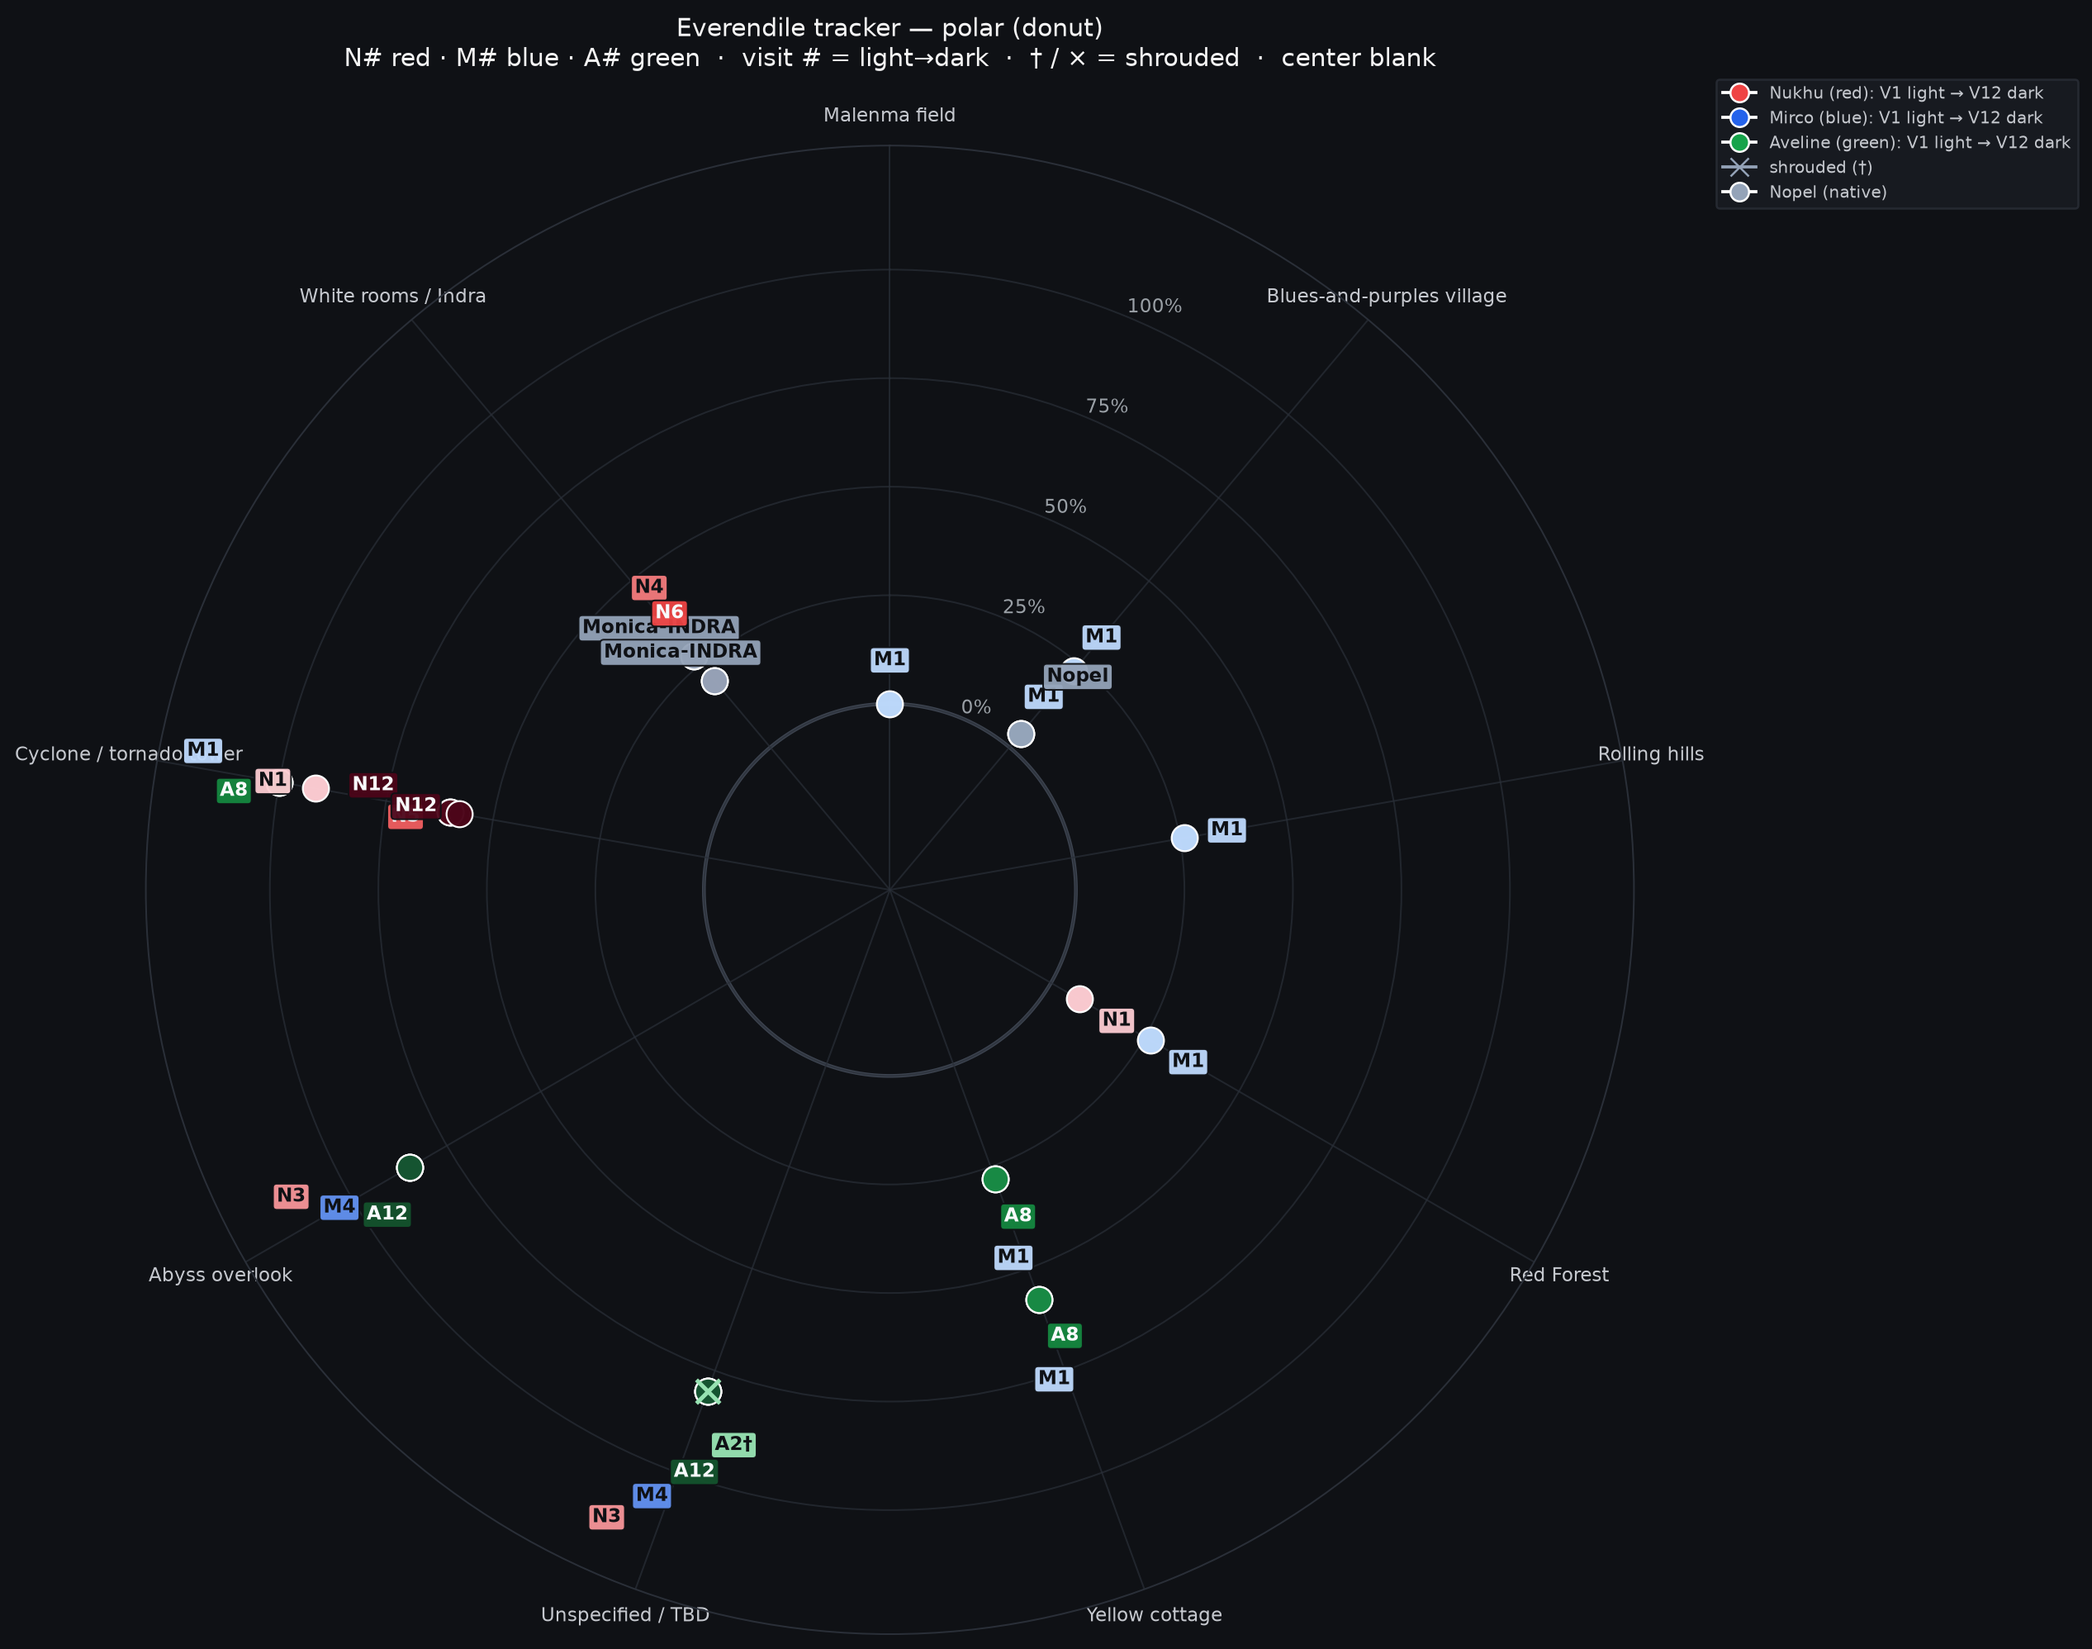
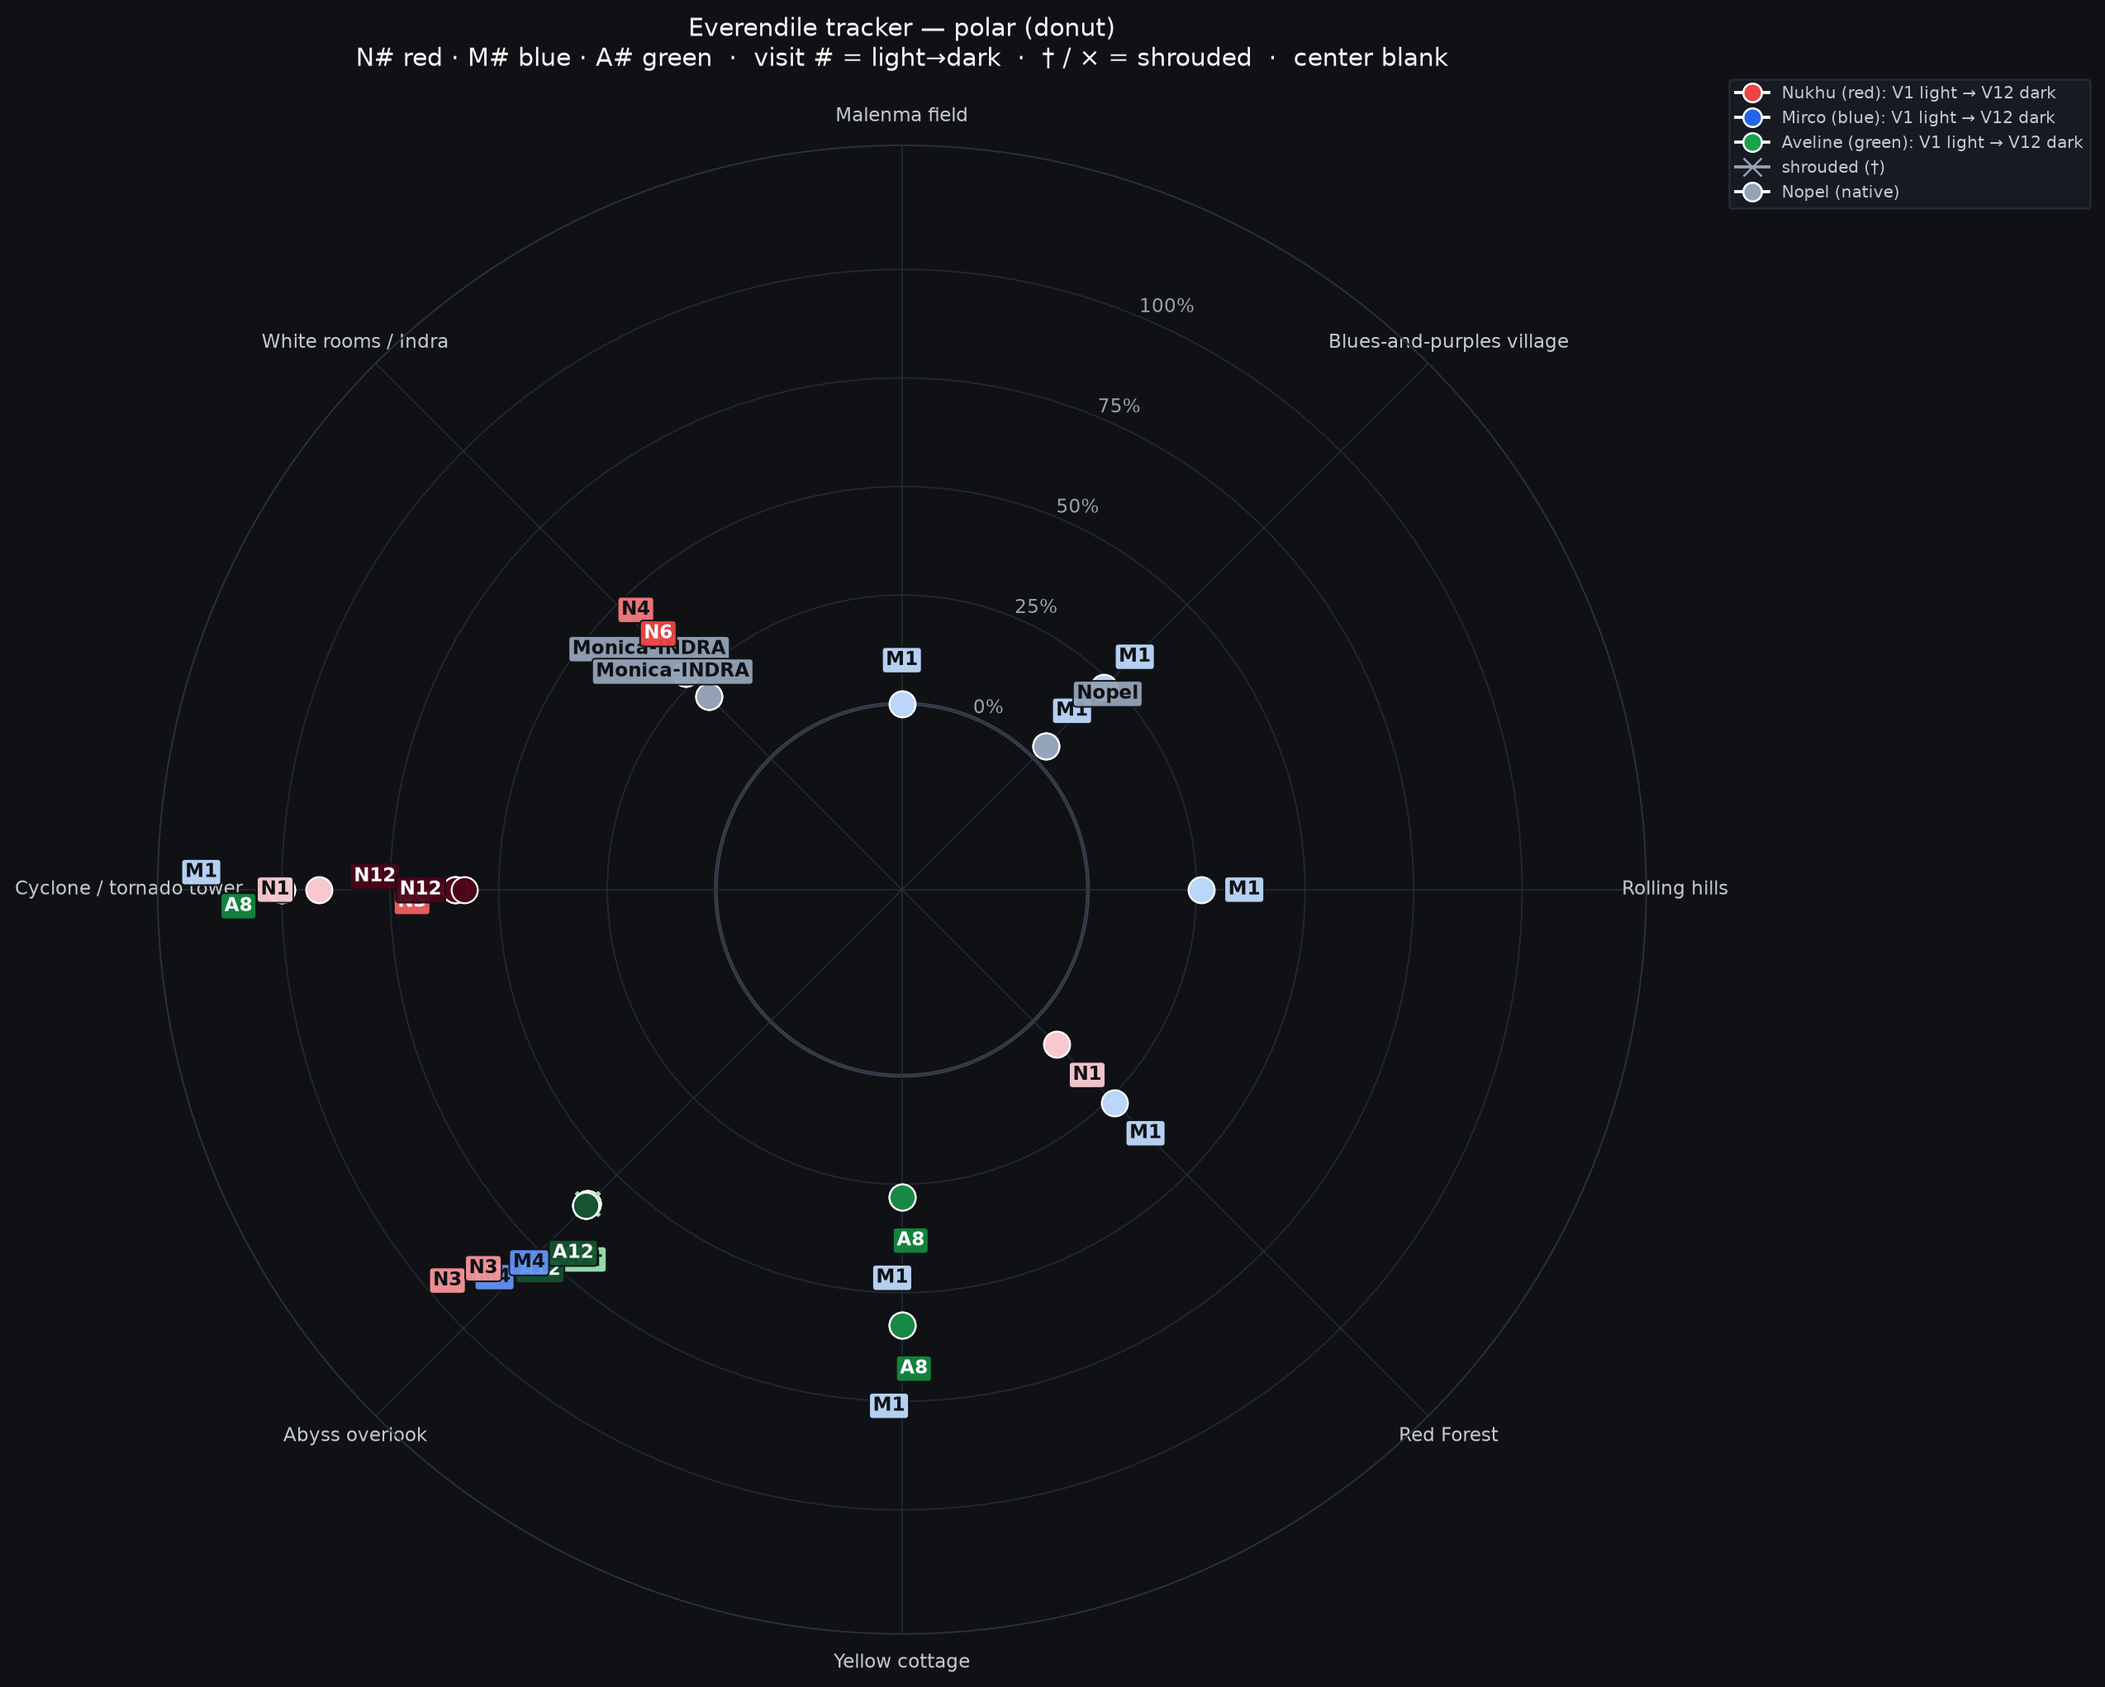
Move speaver fight + abyss overlook to Q3 (~59.5% / 60%)
Both on L_ABYSS; Aveline-V02 shrouded in fight only. Replaces 80%/85% lock.

diff --git a/index.html b/index.html
@@ -393,13 +393,13 @@ const DATA = {
       "beats": [
         {
           "beat_id": "B060",
-          "t": 80.0,
-          "label": "Speaver fight (80%)",
-          "place_id": "L_UNSPEC",
-          "place": "Unspecified / TBD",
+          "t": 59.5,
+          "label": "Speaver fight on abyss overlook (59.5%)",
+          "place_id": "L_ABYSS",
+          "place": "Abyss overlook",
           "shrouded": false,
           "exception": "",
-          "notes": "Speaver / cotton-candy FIGHT \u2014 Nukhu-V03 + Mirco-V04 + Aveline-V12 (author lock)",
+          "notes": "Speaver fight on abyss overlook with Mirco-V04 + Aveline-V12; Aveline-V02 shrouded \u2014 Q3 ~D19 / 59.5%",
           "code": "N3",
           "with": [
             {
@@ -408,7 +408,7 @@ const DATA = {
               "family": "Mirco",
               "visit": 4,
               "shrouded": false,
-              "notes": "Speaver fight with Nukhu-V03 + Aveline-V12 (author lock)"
+              "notes": "Speaver fight on abyss overlook with Nukhu-V03 + Aveline-V12; Aveline-V02 shrouded \u2014 Q3 ~D19 / 59.5%"
             },
             {
               "instance_id": "Aveline-V12",
@@ -416,7 +416,7 @@ const DATA = {
               "family": "Aveline",
               "visit": 12,
               "shrouded": false,
-              "notes": "Speaver fight with Nukhu-V03 + Mirco-V04 (author lock); her Visit 12"
+              "notes": "Speaver fight on abyss overlook with Nukhu-V03 + Mirco-V04; Aveline-V02 shrouded \u2014 Q3 ~D19 / 59.5%; her Visit 12"
             },
             {
               "instance_id": "Aveline-V02",
@@ -424,19 +424,19 @@ const DATA = {
               "family": "Aveline",
               "visit": 2,
               "shrouded": true,
-              "notes": "Shrouded observer at speaver fight (author lock); same locus as Aveline-V12 + Nukhu-V03 + Mirco-V04"
+              "notes": "Shrouded observer at speaver fight on abyss overlook (author lock); same locus as Aveline-V12 + Nukhu-V03 + Mirco-V04 \u2014 Q3 ~D19 / 59.5%"
             }
           ]
         },
         {
           "beat_id": "B065",
-          "t": 85.0,
-          "label": "Abyss aftermath (85%)",
+          "t": 60.0,
+          "label": "Abyss overlook aftermath (60%)",
           "place_id": "L_ABYSS",
           "place": "Abyss overlook",
           "shrouded": false,
           "exception": "",
-          "notes": "Abyss overlook after speaver defeat with Mirco-V04 + Aveline-V12 \u2014 same trio after fight (author lock)",
+          "notes": "Abyss overlook aftermath with Mirco-V04 + Aveline-V12 after speaver \u2014 Q3 D20 / 60% (Aveline-V02 absent)",
           "code": "N3",
           "with": [
             {
@@ -445,7 +445,7 @@ const DATA = {
               "family": "Mirco",
               "visit": 4,
               "shrouded": false,
-              "notes": "Abyss with Nukhu-V03 + Aveline-V12 after speaver \u2014 same trio after fight (author lock)"
+              "notes": "Abyss overlook aftermath with Nukhu-V03 + Aveline-V12 after speaver \u2014 Q3 D20 / 60%"
             },
             {
               "instance_id": "Aveline-V12",
@@ -453,7 +453,7 @@ const DATA = {
               "family": "Aveline",
               "visit": 12,
               "shrouded": false,
-              "notes": "Aveline Visit 12 at abyss with Nukhu-V03 + Mirco-V04 after speaver \u2014 same trio after fight (author lock)"
+              "notes": "Abyss overlook aftermath with Nukhu-V03 + Mirco-V04 after speaver \u2014 Q3 D20 / 60%"
             }
           ]
         }
@@ -467,13 +467,13 @@ const DATA = {
       "beats": [
         {
           "beat_id": "B060",
-          "t": 80.0,
-          "label": "Speaver fight (80%)",
-          "place_id": "L_UNSPEC",
-          "place": "Unspecified / TBD",
+          "t": 59.5,
+          "label": "Speaver fight on abyss overlook (59.5%)",
+          "place_id": "L_ABYSS",
+          "place": "Abyss overlook",
           "shrouded": false,
           "exception": "",
-          "notes": "Speaver fight with Nukhu-V03 + Aveline-V12 (author lock)",
+          "notes": "Speaver fight on abyss overlook with Nukhu-V03 + Aveline-V12; Aveline-V02 shrouded \u2014 Q3 ~D19 / 59.5%",
           "code": "M4",
           "with": [
             {
@@ -482,7 +482,7 @@ const DATA = {
               "family": "Nukhu",
               "visit": 3,
               "shrouded": false,
-              "notes": "Speaver / cotton-candy FIGHT \u2014 Nukhu-V03 + Mirco-V04 + Aveline-V12 (author lock)"
+              "notes": "Speaver fight on abyss overlook with Mirco-V04 + Aveline-V12; Aveline-V02 shrouded \u2014 Q3 ~D19 / 59.5%"
             },
             {
               "instance_id": "Aveline-V12",
@@ -490,7 +490,7 @@ const DATA = {
               "family": "Aveline",
               "visit": 12,
               "shrouded": false,
-              "notes": "Speaver fight with Nukhu-V03 + Mirco-V04 (author lock); her Visit 12"
+              "notes": "Speaver fight on abyss overlook with Nukhu-V03 + Mirco-V04; Aveline-V02 shrouded \u2014 Q3 ~D19 / 59.5%; her Visit 12"
             },
             {
               "instance_id": "Aveline-V02",
@@ -498,19 +498,19 @@ const DATA = {
               "family": "Aveline",
               "visit": 2,
               "shrouded": true,
-              "notes": "Shrouded observer at speaver fight (author lock); same locus as Aveline-V12 + Nukhu-V03 + Mirco-V04"
+              "notes": "Shrouded observer at speaver fight on abyss overlook (author lock); same locus as Aveline-V12 + Nukhu-V03 + Mirco-V04 \u2014 Q3 ~D19 / 59.5%"
             }
           ]
         },
         {
           "beat_id": "B065",
-          "t": 85.0,
-          "label": "Abyss aftermath (85%)",
+          "t": 60.0,
+          "label": "Abyss overlook aftermath (60%)",
           "place_id": "L_ABYSS",
           "place": "Abyss overlook",
           "shrouded": false,
           "exception": "",
-          "notes": "Abyss with Nukhu-V03 + Aveline-V12 after speaver \u2014 same trio after fight (author lock)",
+          "notes": "Abyss overlook aftermath with Nukhu-V03 + Aveline-V12 after speaver \u2014 Q3 D20 / 60%",
           "code": "M4",
           "with": [
             {
@@ -519,7 +519,7 @@ const DATA = {
               "family": "Nukhu",
               "visit": 3,
               "shrouded": false,
-              "notes": "Abyss overlook after speaver defeat with Mirco-V04 + Aveline-V12 \u2014 same trio after fight (author lock)"
+              "notes": "Abyss overlook aftermath with Mirco-V04 + Aveline-V12 after speaver \u2014 Q3 D20 / 60% (Aveline-V02 absent)"
             },
             {
               "instance_id": "Aveline-V12",
@@ -527,7 +527,7 @@ const DATA = {
               "family": "Aveline",
               "visit": 12,
               "shrouded": false,
-              "notes": "Aveline Visit 12 at abyss with Nukhu-V03 + Mirco-V04 after speaver \u2014 same trio after fight (author lock)"
+              "notes": "Abyss overlook aftermath with Nukhu-V03 + Mirco-V04 after speaver \u2014 Q3 D20 / 60%"
             }
           ]
         }
@@ -541,13 +541,13 @@ const DATA = {
       "beats": [
         {
           "beat_id": "B060",
-          "t": 80.0,
-          "label": "Speaver fight (80%)",
-          "place_id": "L_UNSPEC",
-          "place": "Unspecified / TBD",
+          "t": 59.5,
+          "label": "Speaver fight on abyss overlook (59.5%)",
+          "place_id": "L_ABYSS",
+          "place": "Abyss overlook",
           "shrouded": false,
           "exception": "",
-          "notes": "Speaver fight with Nukhu-V03 + Mirco-V04 (author lock); her Visit 12",
+          "notes": "Speaver fight on abyss overlook with Nukhu-V03 + Mirco-V04; Aveline-V02 shrouded \u2014 Q3 ~D19 / 59.5%; her Visit 12",
           "code": "A12",
           "with": [
             {
@@ -556,7 +556,7 @@ const DATA = {
               "family": "Nukhu",
               "visit": 3,
               "shrouded": false,
-              "notes": "Speaver / cotton-candy FIGHT \u2014 Nukhu-V03 + Mirco-V04 + Aveline-V12 (author lock)"
+              "notes": "Speaver fight on abyss overlook with Mirco-V04 + Aveline-V12; Aveline-V02 shrouded \u2014 Q3 ~D19 / 59.5%"
             },
             {
               "instance_id": "Mirco-V04",
@@ -564,7 +564,7 @@ const DATA = {
               "family": "Mirco",
               "visit": 4,
               "shrouded": false,
-              "notes": "Speaver fight with Nukhu-V03 + Aveline-V12 (author lock)"
+              "notes": "Speaver fight on abyss overlook with Nukhu-V03 + Aveline-V12; Aveline-V02 shrouded \u2014 Q3 ~D19 / 59.5%"
             },
             {
               "instance_id": "Aveline-V02",
@@ -572,19 +572,19 @@ const DATA = {
               "family": "Aveline",
               "visit": 2,
               "shrouded": true,
-              "notes": "Shrouded observer at speaver fight (author lock); same locus as Aveline-V12 + Nukhu-V03 + Mirco-V04"
+              "notes": "Shrouded observer at speaver fight on abyss overlook (author lock); same locus as Aveline-V12 + Nukhu-V03 + Mirco-V04 \u2014 Q3 ~D19 / 59.5%"
             }
           ]
         },
         {
           "beat_id": "B065",
-          "t": 85.0,
-          "label": "Abyss aftermath (85%)",
+          "t": 60.0,
+          "label": "Abyss overlook aftermath (60%)",
           "place_id": "L_ABYSS",
           "place": "Abyss overlook",
           "shrouded": false,
           "exception": "",
-          "notes": "Aveline Visit 12 at abyss with Nukhu-V03 + Mirco-V04 after speaver \u2014 same trio after fight (author lock)",
+          "notes": "Abyss overlook aftermath with Nukhu-V03 + Mirco-V04 after speaver \u2014 Q3 D20 / 60%",
           "code": "A12",
           "with": [
             {
@@ -593,7 +593,7 @@ const DATA = {
               "family": "Nukhu",
               "visit": 3,
               "shrouded": false,
-              "notes": "Abyss overlook after speaver defeat with Mirco-V04 + Aveline-V12 \u2014 same trio after fight (author lock)"
+              "notes": "Abyss overlook aftermath with Mirco-V04 + Aveline-V12 after speaver \u2014 Q3 D20 / 60% (Aveline-V02 absent)"
             },
             {
               "instance_id": "Mirco-V04",
@@ -601,7 +601,7 @@ const DATA = {
               "family": "Mirco",
               "visit": 4,
               "shrouded": false,
-              "notes": "Abyss with Nukhu-V03 + Aveline-V12 after speaver \u2014 same trio after fight (author lock)"
+              "notes": "Abyss overlook aftermath with Nukhu-V03 + Aveline-V12 after speaver \u2014 Q3 D20 / 60%"
             }
           ]
         }
@@ -615,13 +615,13 @@ const DATA = {
       "beats": [
         {
           "beat_id": "B060",
-          "t": 80.0,
-          "label": "Speaver fight (80%)",
-          "place_id": "L_UNSPEC",
-          "place": "Unspecified / TBD",
+          "t": 59.5,
+          "label": "Speaver fight on abyss overlook (59.5%)",
+          "place_id": "L_ABYSS",
+          "place": "Abyss overlook",
           "shrouded": true,
           "exception": "",
-          "notes": "Shrouded observer at speaver fight (author lock); same locus as Aveline-V12 + Nukhu-V03 + Mirco-V04",
+          "notes": "Shrouded observer at speaver fight on abyss overlook (author lock); same locus as Aveline-V12 + Nukhu-V03 + Mirco-V04 \u2014 Q3 ~D19 / 59.5%",
           "code": "A2\u2020",
           "with": [
             {
@@ -630,7 +630,7 @@ const DATA = {
               "family": "Nukhu",
               "visit": 3,
               "shrouded": false,
-              "notes": "Speaver / cotton-candy FIGHT \u2014 Nukhu-V03 + Mirco-V04 + Aveline-V12 (author lock)"
+              "notes": "Speaver fight on abyss overlook with Mirco-V04 + Aveline-V12; Aveline-V02 shrouded \u2014 Q3 ~D19 / 59.5%"
             },
             {
               "instance_id": "Mirco-V04",
@@ -638,7 +638,7 @@ const DATA = {
               "family": "Mirco",
               "visit": 4,
               "shrouded": false,
-              "notes": "Speaver fight with Nukhu-V03 + Aveline-V12 (author lock)"
+              "notes": "Speaver fight on abyss overlook with Nukhu-V03 + Aveline-V12; Aveline-V02 shrouded \u2014 Q3 ~D19 / 59.5%"
             },
             {
               "instance_id": "Aveline-V12",
@@ -646,7 +646,7 @@ const DATA = {
               "family": "Aveline",
               "visit": 12,
               "shrouded": false,
-              "notes": "Speaver fight with Nukhu-V03 + Mirco-V04 (author lock); her Visit 12"
+              "notes": "Speaver fight on abyss overlook with Nukhu-V03 + Mirco-V04; Aveline-V02 shrouded \u2014 Q3 ~D19 / 59.5%; her Visit 12"
             }
           ]
         }
@@ -1129,19 +1129,19 @@ const DATA = {
       "label": "Nukhu-V12 realizes the loop (~58%)"
     },
     {
-      "beat_id": "B070",
-      "t": 60.0,
-      "label": "N12 death / V5 kill at cyclone (~60%)"
-    },
-    {
       "beat_id": "B060",
-      "t": 80.0,
-      "label": "Speaver fight (80%)"
+      "t": 59.5,
+      "label": "Speaver fight on abyss overlook (59.5%)"
     },
     {
       "beat_id": "B065",
-      "t": 85.0,
-      "label": "Abyss aftermath (85%)"
+      "t": 60.0,
+      "label": "Abyss overlook aftermath (60%)"
+    },
+    {
+      "beat_id": "B070",
+      "t": 60.0,
+      "label": "N12 death / V5 kill at cyclone (~60%)"
     },
     {
       "beat_id": "B078",
